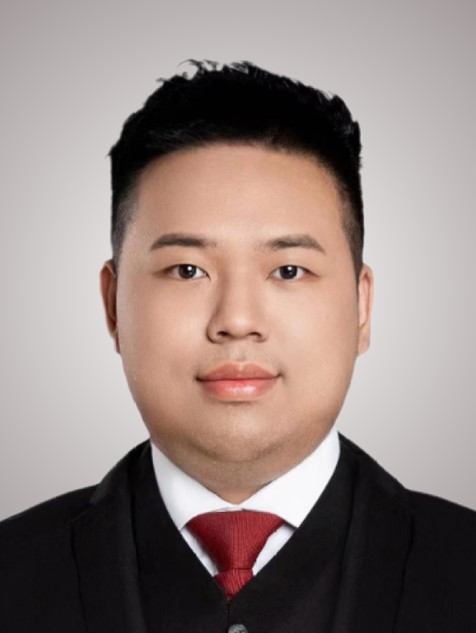
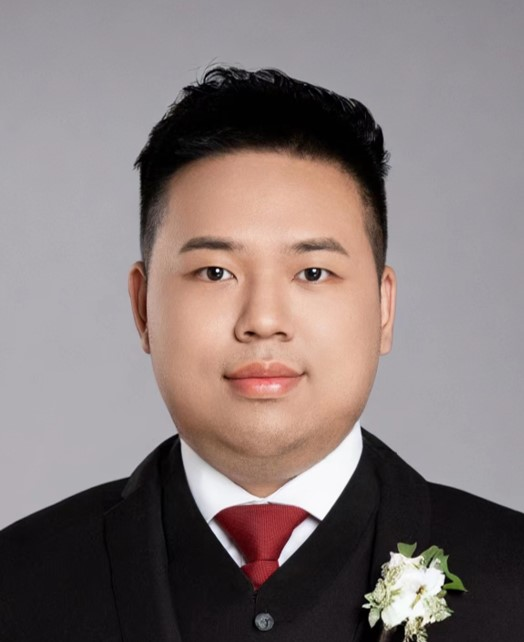
Update Author “admin/_index”

diff --git a/content/authors/admin/_index.md b/content/authors/admin/_index.md
@@ -1,7 +1,7 @@
 ---
 title: Bryce Yu 俞小坤
 role: Postgraduate student in Econ
-avatar_filename: avatar.png
+avatar_filename: avatar.jpg
 bio: My research interests include distributed robotics, mobile computing and
   programmable matter.
 interests:
